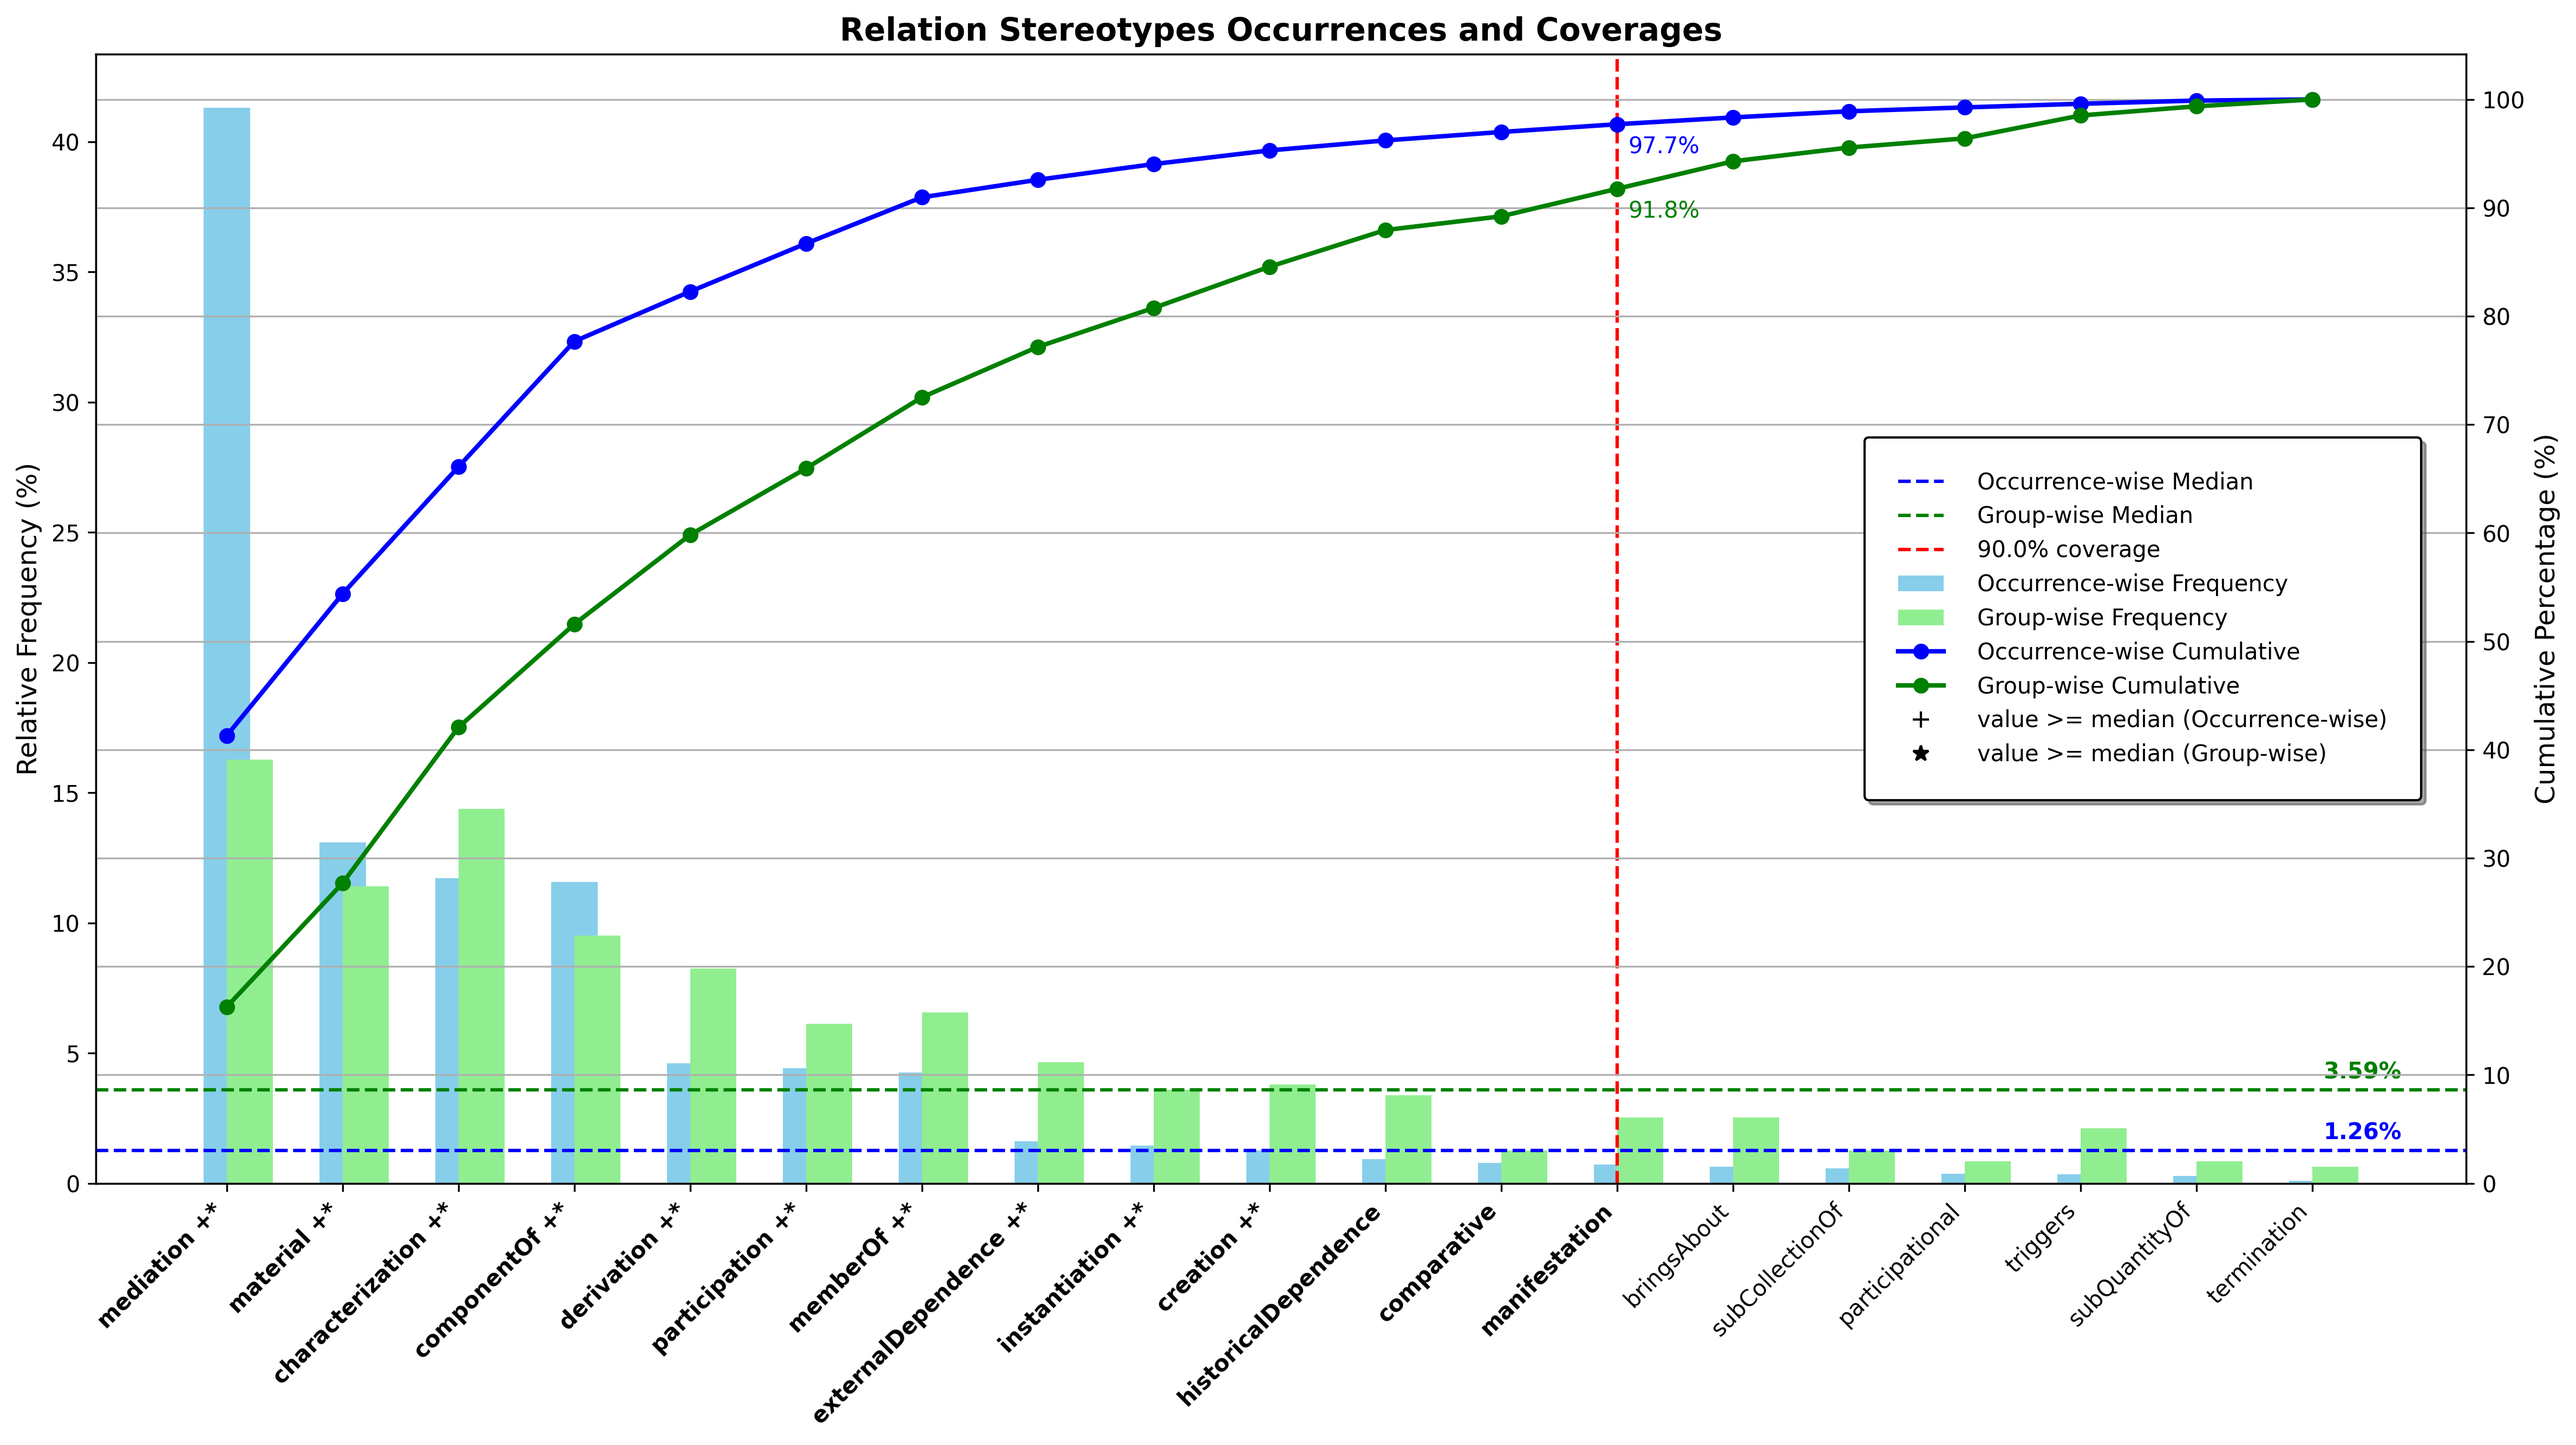
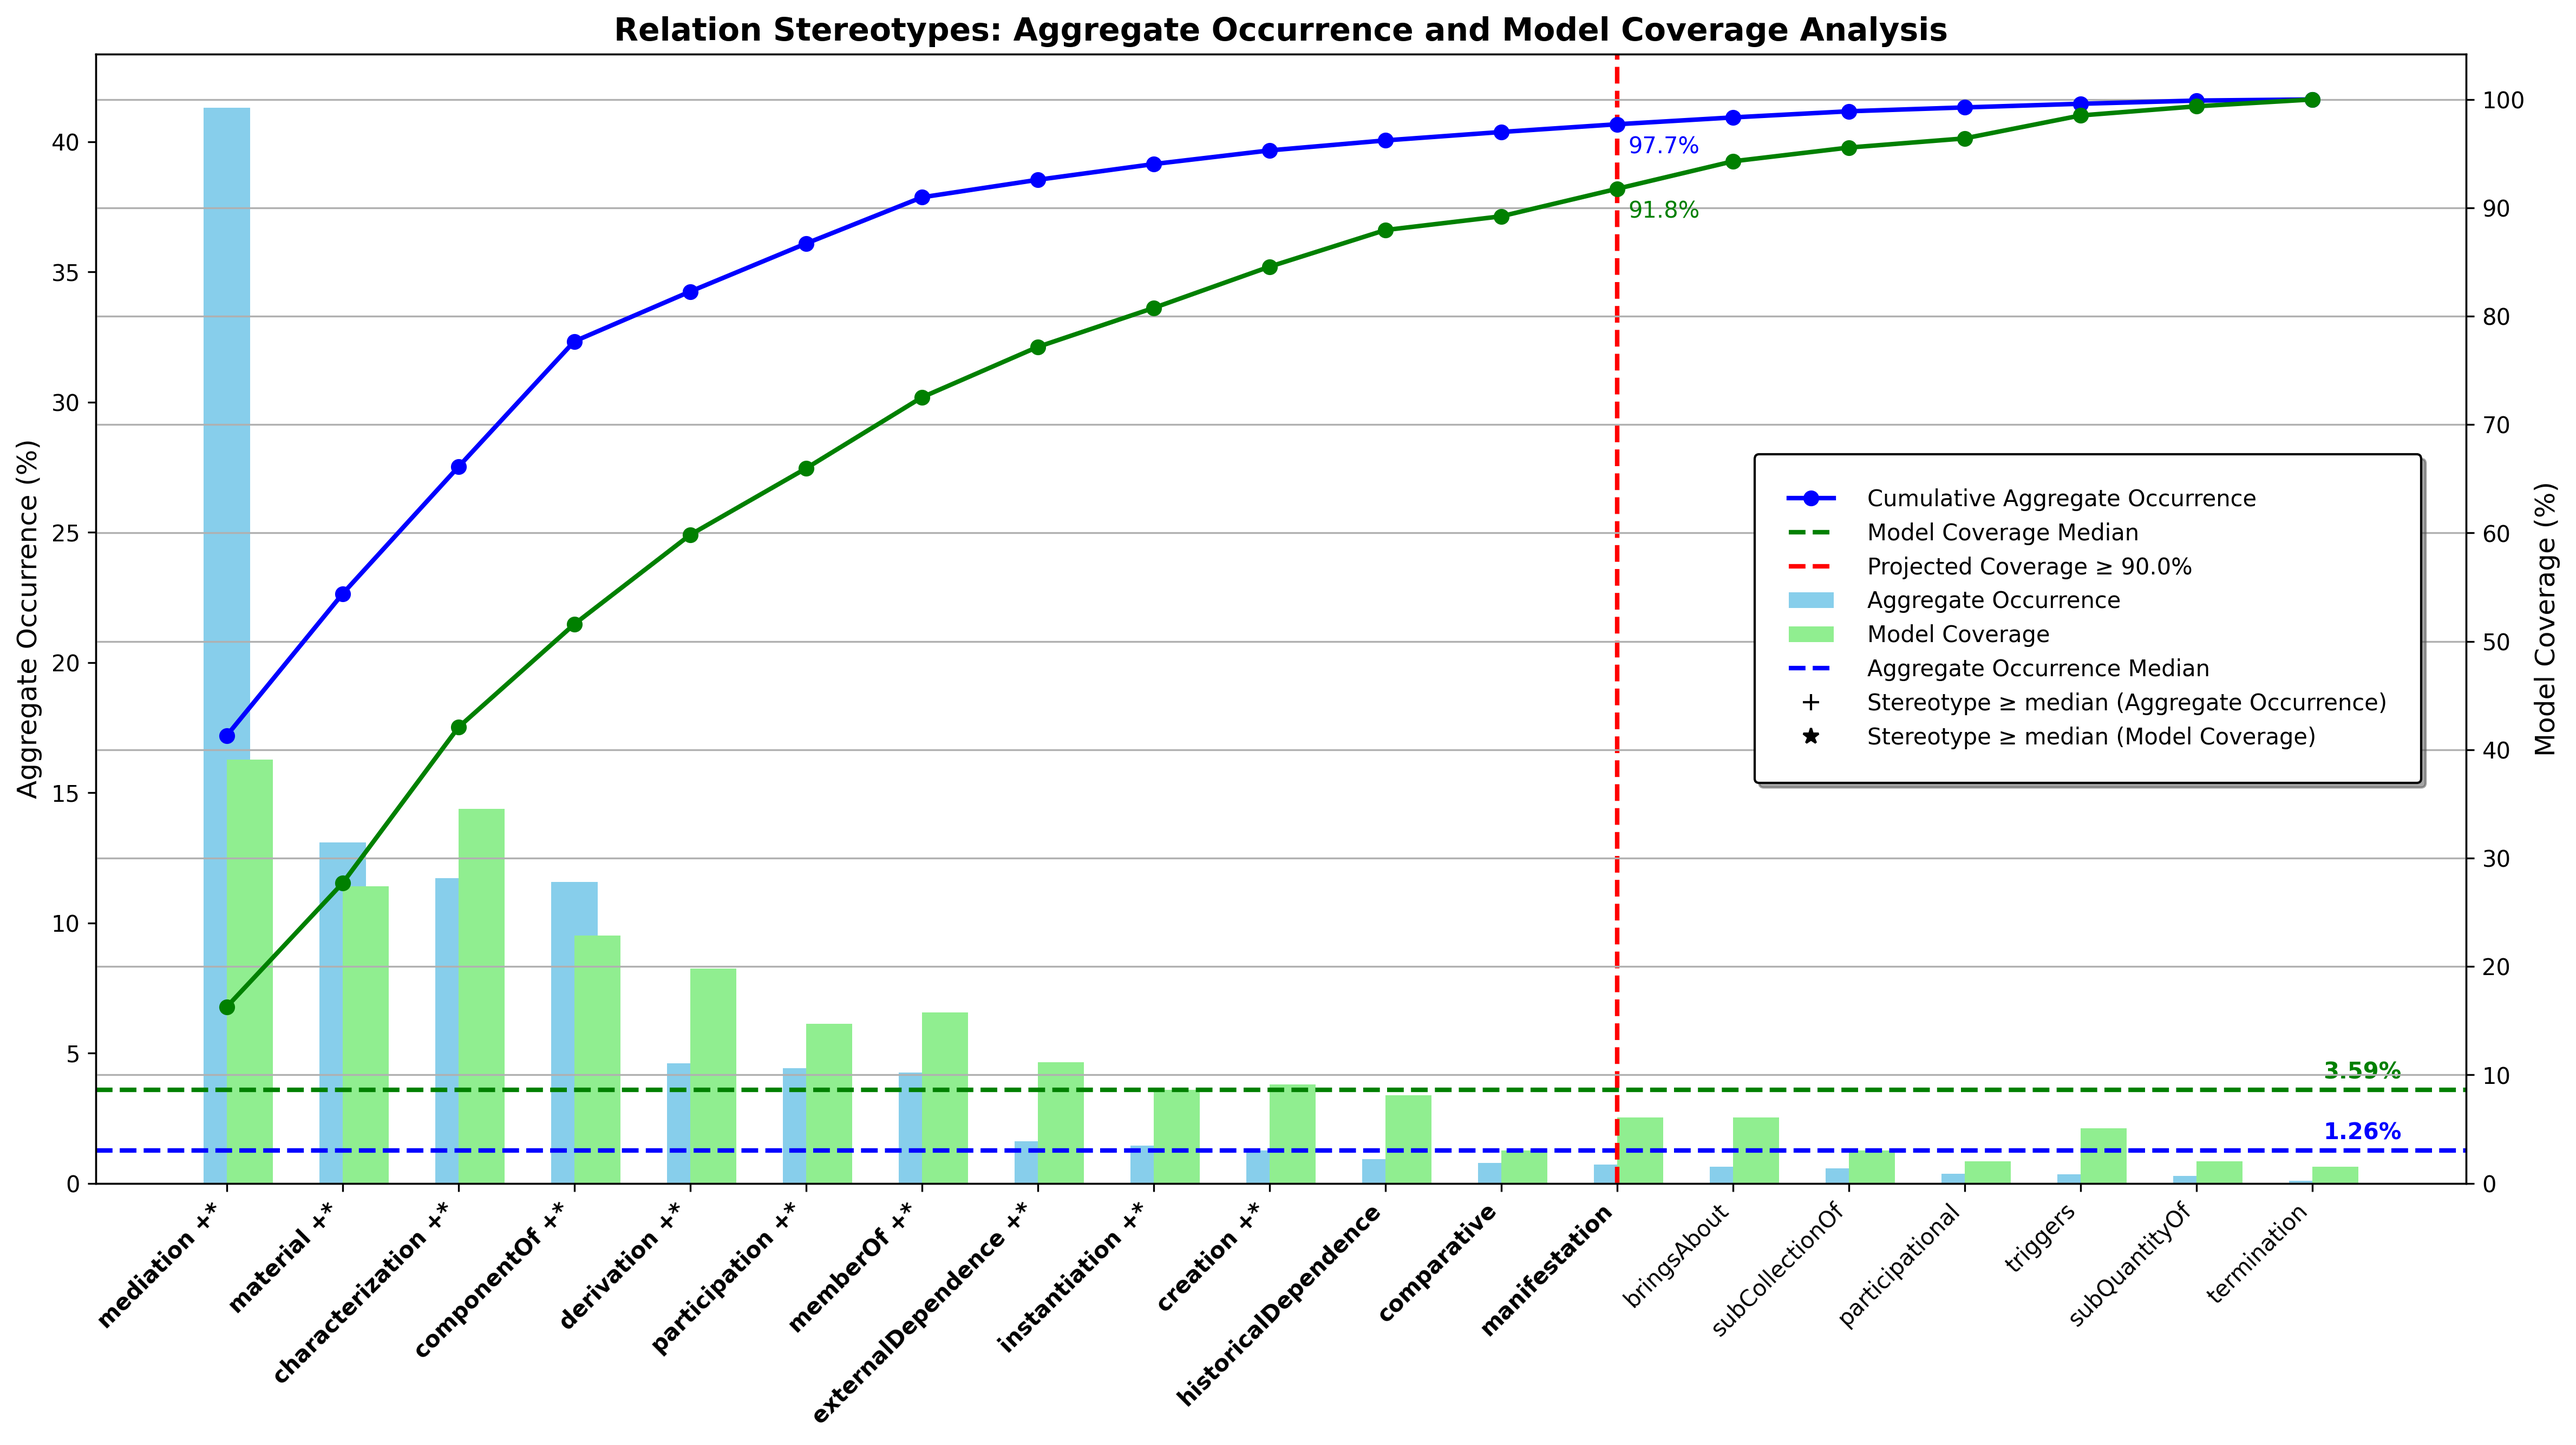
Pareto chart improved.

diff --git a/src/step3_output.py b/src/step3_output.py
@@ -66,19 +66,19 @@ def plot_pareto_combined(dataset, output_dir: str, coverage_limit: float = None)
         # Bar plot for occurrence-wise frequency
         bar_width = 0.4
         ax1.bar(data_occurrence['Stereotype'], data_occurrence['Percentage Frequency'], width=bar_width,
-                label='Occurrence-wise Frequency', align='center', color='skyblue', zorder=1)
+                label='Aggregate Occurrence', align='center', color='skyblue', zorder=1)
 
         # Bar plot for group-wise frequency (shifted to the right)
         ax1.bar(data_groupwise['Stereotype'], data_groupwise['Percentage Group-wise Frequency'], width=bar_width,
-                label='Group-wise Frequency', align='edge', color='lightgreen', zorder=1)
+                label='Model Coverage', align='edge', color='lightgreen', zorder=1)
 
         # Calculate medians
         median_occurrence = np.median(data_occurrence['Percentage Frequency'])
         median_groupwise = np.median(data_groupwise['Percentage Group-wise Frequency'])
 
         # Plot horizontal dashed lines for the medians (keep simple labels for the legend)
-        ax1.axhline(median_occurrence, color='blue', linestyle='--', linewidth=1.5, label='Occurrence-wise Median')
-        ax1.axhline(median_groupwise, color='green', linestyle='--', linewidth=1.5, label='Group-wise Median')
+        ax1.axhline(median_occurrence, color='blue', linestyle='--', linewidth=2.0, label='Aggregate Occurrence Median')
+        ax1.axhline(median_groupwise, color='green', linestyle='--', linewidth=2.0, label='Model Coverage Median')
 
         # Annotate the medians at the rightmost end of the lines
         ax1.annotate(f'{median_occurrence:.2f}%', xy=(len(data_occurrence) - 1, median_occurrence), xytext=(5, 5),
@@ -88,7 +88,7 @@ def plot_pareto_combined(dataset, output_dir: str, coverage_limit: float = None)
                      textcoords='offset points', color='green', fontsize=10, fontweight='bold')
 
         # Set labels and title
-        ax1.set_ylabel('Relative Frequency (%)', fontsize=12)
+        ax1.set_ylabel('Aggregate Occurrence (%)', fontsize=12)
         ax1.set_title(title, fontweight='bold', fontsize=14)
 
         # Rotate the labels by 90 degrees for better readability
@@ -98,11 +98,11 @@ def plot_pareto_combined(dataset, output_dir: str, coverage_limit: float = None)
         ax2 = ax1.twinx()  # Create a second y-axis
 
         ax2.plot(range(len(data_occurrence)), data_occurrence['Cumulative Percentage'], color='blue', marker='o',
-                 label='Occurrence-wise Cumulative', linestyle='-', linewidth=2, zorder=2)
+                 label='Cumulative Aggregate Occurrence', linestyle='-', linewidth=2, zorder=2)
 
         # Line plot for group-wise cumulative percentage
         ax2.plot(range(len(data_groupwise)), data_groupwise['Group-wise Cumulative Percentage'], color='green',
-                 marker='o', label='Group-wise Cumulative', linestyle='-', linewidth=2, zorder=2)
+                 marker='o', label='Cumulative Model Coverage', linestyle='-', linewidth=2, zorder=2)
 
         if coverage_limit is not None:
             coverage_limit_percent = coverage_limit * 100
@@ -113,7 +113,7 @@ def plot_pareto_combined(dataset, output_dir: str, coverage_limit: float = None)
                 groupwise_cumulative = data_groupwise.loc[i, 'Group-wise Cumulative Percentage']
                 if min(occurrence_cumulative, groupwise_cumulative) >= coverage_limit_percent:
                     # Plot the vertical dashed line at this index
-                    ax1.axvline(x=i, color='red', linestyle='--', label=f'{coverage_limit_percent:.1f}% coverage')
+                    ax1.axvline(x=i, color='red', linestyle='--', linewidth=2.0, label=f'Projected Coverage ≥ {coverage_limit_percent:.1f}%')
 
                     # Annotate the occurrence-wise cumulative percentage, automatically adjusted
                     ax2.annotate(f'{occurrence_cumulative:.1f}%', xy=(i, occurrence_cumulative),
@@ -129,7 +129,7 @@ def plot_pareto_combined(dataset, output_dir: str, coverage_limit: float = None)
                     break
 
         # Set the y-axis label and ticks for the cumulative percentage
-        ax2.set_ylabel('Cumulative Percentage (%)', fontsize=12)
+        ax2.set_ylabel('Model Coverage (%)', fontsize=12)
         ax2.set_yticks(range(0, 101, 10))
 
         ax1.tick_params(axis='x', rotation=45)  # Rotate by 45 degrees
@@ -186,9 +186,9 @@ def plot_pareto_combined(dataset, output_dir: str, coverage_limit: float = None)
 
         # Create proxy artists for the symbols
         legend_elements = [Line2D([0], [0], marker='+', color='black', linestyle='None', markersize=7,
-                                  label='value >= median (Occurrence-wise)'),
+                                  label='Stereotype ≥ median (Aggregate Occurrence)'),
                            Line2D([0], [0], marker='*', color='black', linestyle='None', markersize=7,
-                                  label='value >= median (Group-wise)')]
+                                  label='Stereotype ≥ median (Model Coverage)')]
 
         # Add these proxies to the existing legend
         ax2.legend(handles=combined_handles + legend_elements,  # Combine previous handles with new ones
@@ -207,11 +207,11 @@ def plot_pareto_combined(dataset, output_dir: str, coverage_limit: float = None)
     # Now generate Pareto charts for class clean and relation clean datasets
     create_pareto_chart(pd.DataFrame(dataset.class_statistics_clean['rank_frequency_distribution']),
                         pd.DataFrame(dataset.class_statistics_clean['rank_groupwise_frequency_distribution']),
-                        'Class Stereotypes Occurrences and Coverages', class_clean_out, coverage_limit)
+                        'Class Stereotypes: Aggregate Occurrence and Model Coverage Analysis', class_clean_out, coverage_limit)
 
     create_pareto_chart(pd.DataFrame(dataset.relation_statistics_clean['rank_frequency_distribution']),
                         pd.DataFrame(dataset.relation_statistics_clean['rank_groupwise_frequency_distribution']),
-                        'Relation Stereotypes Occurrences and Coverages', relation_clean_out, coverage_limit)
+                        'Relation Stereotypes: Aggregate Occurrence and Model Coverage Analysis', relation_clean_out, coverage_limit)
 
 
 def execute_non_ontouml_analysis(dataset, out_dir_path):
@@ -293,7 +293,7 @@ def generate_non_ontouml_combined_visualization(df_occurrence, df_modelwise, out
 
     # Set labels for the first y-axis (occurrence-wise)
     ax1.set_xlabel('Year')
-    ax1.set_ylabel('Occurrence-wise Frequency (%)', color='black')
+    ax1.set_ylabel('Aggregate Occurrence (%)', color='black')
     ax1.tick_params(axis='y', labelcolor='black')
 
     # Updated code to prevent y-lim warnings for occurrence-wise

diff --git a/main.py b/main.py
@@ -8,7 +8,7 @@ from src.step1_input import load_data_from_catalog, query_data, calculate_models
 from src.step2_processing import calculate_and_save_datasets_statistics, \
     calculate_and_save_datasets_stereotypes_statistics
 from src.step3_output import generate_visualizations
-from src.utils import save_object
+from src.utils import save_object, load_object
 
 
 def calculate_and_save_datasets_quadrants():
@@ -44,21 +44,23 @@ def calculate_and_save_datasets_quadrants():
 
 
 if __name__ == "__main__":
-    # Step 0: Initial setup
-    initialize_output_directories()
-    catalog_path = get_catalog_path()
+    # # Step 0: Initial setup
+    # initialize_output_directories()
+    # catalog_path = get_catalog_path()
+    #
+    # # Step 1: Data input - load all models' data, execute queries and create dataset
+    # all_models_data = load_data_from_catalog(catalog_path)
+    # query_data(all_models_data)
+    # all_models_data = calculate_models_data()
+    # datasets = create_and_save_specific_datasets_instances(all_models_data)
+    #
+    # # Step 2: Data processing - generate statistics
+    # calculate_and_save_datasets_statistics(datasets, OUTPUT_DIR_02)
+    # calculate_and_save_datasets_stereotypes_statistics(datasets, OUTPUT_DIR_02)
+    # calculate_and_save_datasets_quadrants()
+    # save_object(datasets, OUTPUT_DIR_02, "datasets", "Updated datasets")
 
-    # Step 1: Data input - load all models' data, execute queries and create dataset
-    all_models_data = load_data_from_catalog(catalog_path)
-    query_data(all_models_data)
-    all_models_data = calculate_models_data()
-    datasets = create_and_save_specific_datasets_instances(all_models_data)
-
-    # Step 2: Data processing - generate statistics
-    calculate_and_save_datasets_statistics(datasets, OUTPUT_DIR_02)
-    calculate_and_save_datasets_stereotypes_statistics(datasets, OUTPUT_DIR_02)
-    calculate_and_save_datasets_quadrants()
-    save_object(datasets, OUTPUT_DIR_02, "datasets", "Updated datasets")
+    datasets = load_object(os.path.join(OUTPUT_DIR_02, "datasets.object.gz"), "Updated datasets")
 
     # Step 3: Data output - visualizations
     generate_visualizations(datasets, OUTPUT_DIR_03)

diff --git a/src/utils.py b/src/utils.py
@@ -128,7 +128,7 @@ def create_visualizations_out_dirs(output_dir, dataset_name):
     output_dir = os.path.join(output_dir, dataset_name)
 
     # Subdirectories
-    subdirs = ["class_raw", "class_clean", "relation_raw", "relation_clean"]
+    subdirs = ["class_clean", "relation_clean"]
     paths = [os.path.join(output_dir, subdir) for subdir in subdirs]
 
     # Create directories if they don't exist
